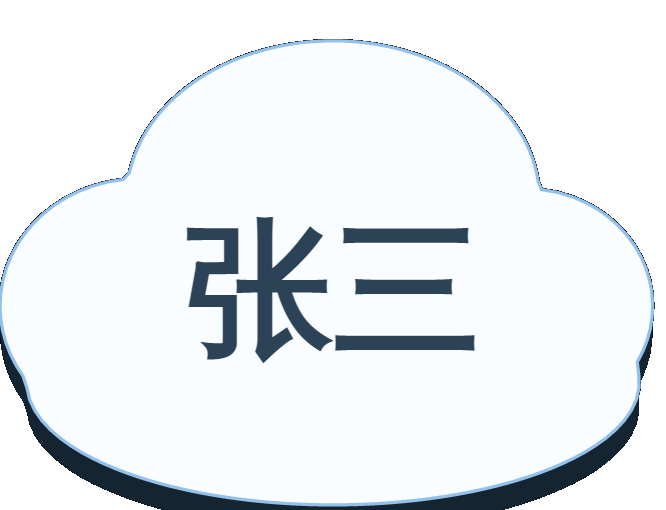
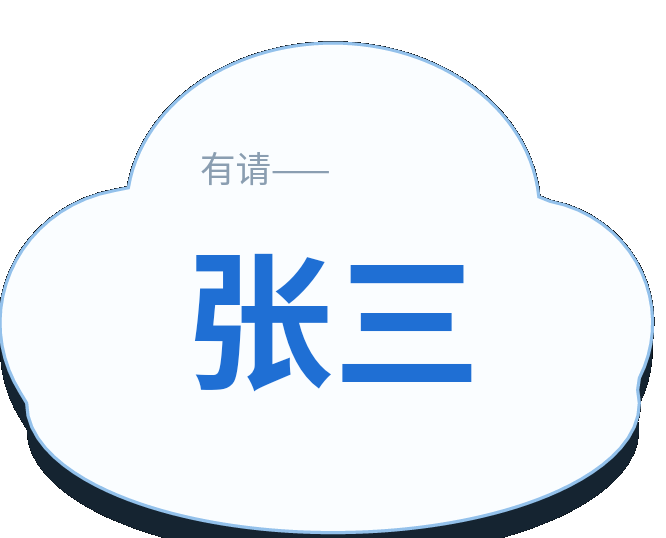
抽签结果云内改成两行：「有请——」+ 人名
第一行小字灰色靠左作引子，第二行名字大字蓝色加粗；字体按平台常见
中文字体排一串交给系统挑（微软雅黑 / 苹方 / 思源黑体），不写死单一字体。

修一处布局错误：留白原本挂在名字上，把两行的容器撑高之后引子被顶到
云体之外、飘在左上方空白区；改成挂在整块上，引子才落进云里。

diff --git a/src/ClassIsland.Toolbox/Views/RevealWindow.cs b/src/ClassIsland.Toolbox/Views/RevealWindow.cs
@@ -36,18 +36,34 @@ public class RevealWindow : Window
     // 和工具条同一套「云 + 天空」：淡蓝描边、深蓝灰的字。
     private static readonly Color CloudBorder = Color.FromRgb(0x93, 0xC1, 0xEB);
     private static readonly Color CloudFill = Color.FromArgb(0xFF, 0xFA, 0xFD, 0xFF);
-    private static readonly Color NameColor = Color.FromRgb(0x2B, 0x42, 0x57);
+    private static readonly Color NameColor = Color.FromRgb(0x1F, 0x6F, 0xD4);
+    private static readonly Color LeadColor = Color.FromRgb(0x8A, 0x9E, 0xB1);
+
+    /// <summary>
+    /// 名字用的字体。
+    /// </summary>
+    /// <remarks>
+    /// 按平台常见的中文字体排一串，交给系统挑第一个装了的：
+    /// Windows 上是微软雅黑，macOS 上苹方，Linux 上思源黑体。
+    /// <b>不写死单一字体</b>——插件要跨平台，写死一个系统没有的字体就会掉回默认字形，
+    /// 大屏幕上那个默认字形很难看。
+    /// </remarks>
+    private static readonly FontFamily UiFont = new(
+        "Microsoft YaHei UI, Microsoft YaHei, PingFang SC, Hiragino Sans GB, " +
+        "Source Han Sans SC, Noto Sans CJK SC, sans-serif");
 
     /// <summary>云面比名字大多少（倍数）。太小会显得字挤满整朵云。</summary>
     private const double CloudPaddingX = 1.25;
 
-    private const double CloudPaddingTop = 1.30;
+    private const double CloudPaddingTop = 0.95;
 
     private const double CloudPaddingBottom = 0.80;
 
     private static RevealWindow? _instance;
 
+    private readonly TextBlock _lead;
     private readonly TextBlock _nameText;
+    private readonly StackPanel _lines;
     private readonly CloudButtonSurface _cloud;
     private readonly Panel _stage;
     private readonly DispatcherTimer _closeTimer;
@@ -97,16 +113,37 @@ public class RevealWindow : Window
         WindowStartupLocation = WindowStartupLocation.CenterScreen;
         IsHitTestVisible = false;
 
+        // 第一行「有请——」：小字、灰色、靠左。
+        // 靠左是刻意的——它是一句引子，跟下面居中的名字拉开，看着才像"念到名字"。
+        _lead = new TextBlock
+        {
+            Text = "有请——",
+            FontSize = fontSize * 0.24,
+            FontFamily = UiFont,
+            Foreground = new SolidColorBrush(LeadColor),
+            HorizontalAlignment = HorizontalAlignment.Left,
+            Margin = new Thickness(fontSize * 0.10, 0, 0, fontSize * 0.08)
+        };
+
+        // 第二行：名字。大字、蓝色、加粗。
         _nameText = new TextBlock
         {
             FontSize = fontSize,
-            FontWeight = FontWeight.SemiBold,
+            FontWeight = FontWeight.Bold,
+            FontFamily = UiFont,
             Foreground = new SolidColorBrush(NameColor),
             HorizontalAlignment = HorizontalAlignment.Center,
-            VerticalAlignment = VerticalAlignment.Center,
             TextAlignment = TextAlignment.Center,
             TextWrapping = TextWrapping.Wrap,
             MaxWidth = Math.Max(280, fontSize * 4.6)
+        };
+
+        _lines = new StackPanel
+        {
+            Orientation = Orientation.Vertical,
+            HorizontalAlignment = HorizontalAlignment.Center,
+            VerticalAlignment = VerticalAlignment.Center,
+            Children = { _lead, _nameText }
         };
 
         // 整朵云就是一个控件，把名字压在上面。
@@ -124,7 +161,7 @@ public class RevealWindow : Window
         {
             HorizontalAlignment = HorizontalAlignment.Center,
             VerticalAlignment = VerticalAlignment.Center,
-            Children = { _cloud, _nameText },
+            Children = { _cloud, _lines },
             Opacity = 0,
             // 用 TransformOperations 而不是自己搭 ScaleTransform：
             // 过渡挂在 Visual 上才有自己的时钟；单独的 ScaleTransform 不是 Visual，
@@ -157,7 +194,7 @@ public class RevealWindow : Window
 
     /// <summary>按字号把云面撑到比名字大一圈。</summary>
     private void ApplyScale(double fontSize) =>
-        _nameText.Margin = new Thickness(
+        _lines.Margin = new Thickness(
             fontSize * CloudPaddingX,
             fontSize * CloudPaddingTop,
             fontSize * CloudPaddingX,
@@ -168,6 +205,8 @@ public class RevealWindow : Window
     {
         _nameText.Text = name;
         _nameText.FontSize = fontSize;
+        _lead.FontSize = fontSize * 0.24;
+        _lead.Margin = new Thickness(fontSize * 0.10, 0, 0, fontSize * 0.08);
         ApplyScale(fontSize);
         Bump(hold);
     }
